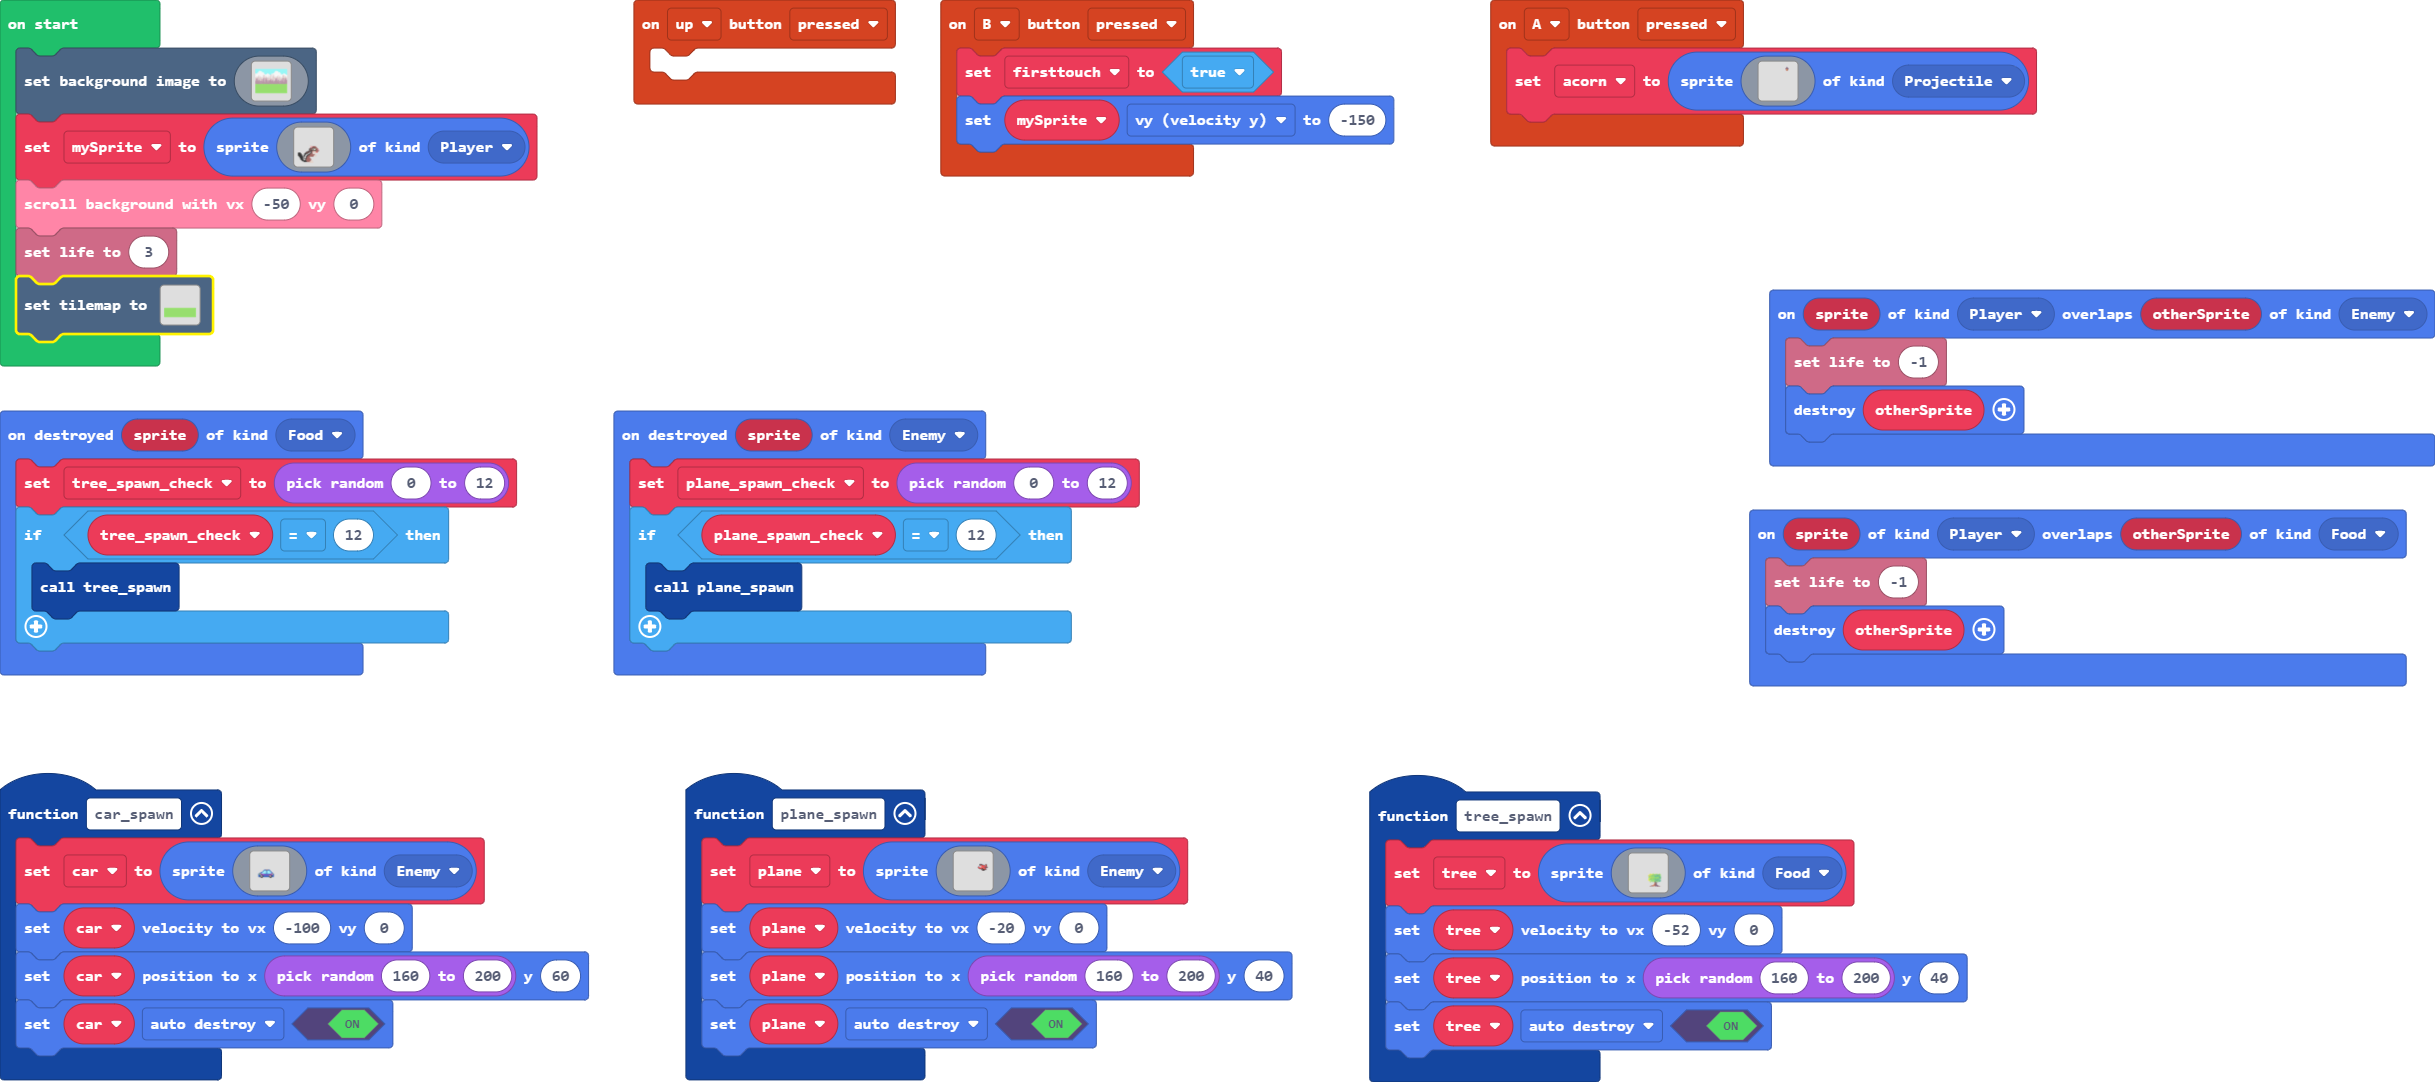
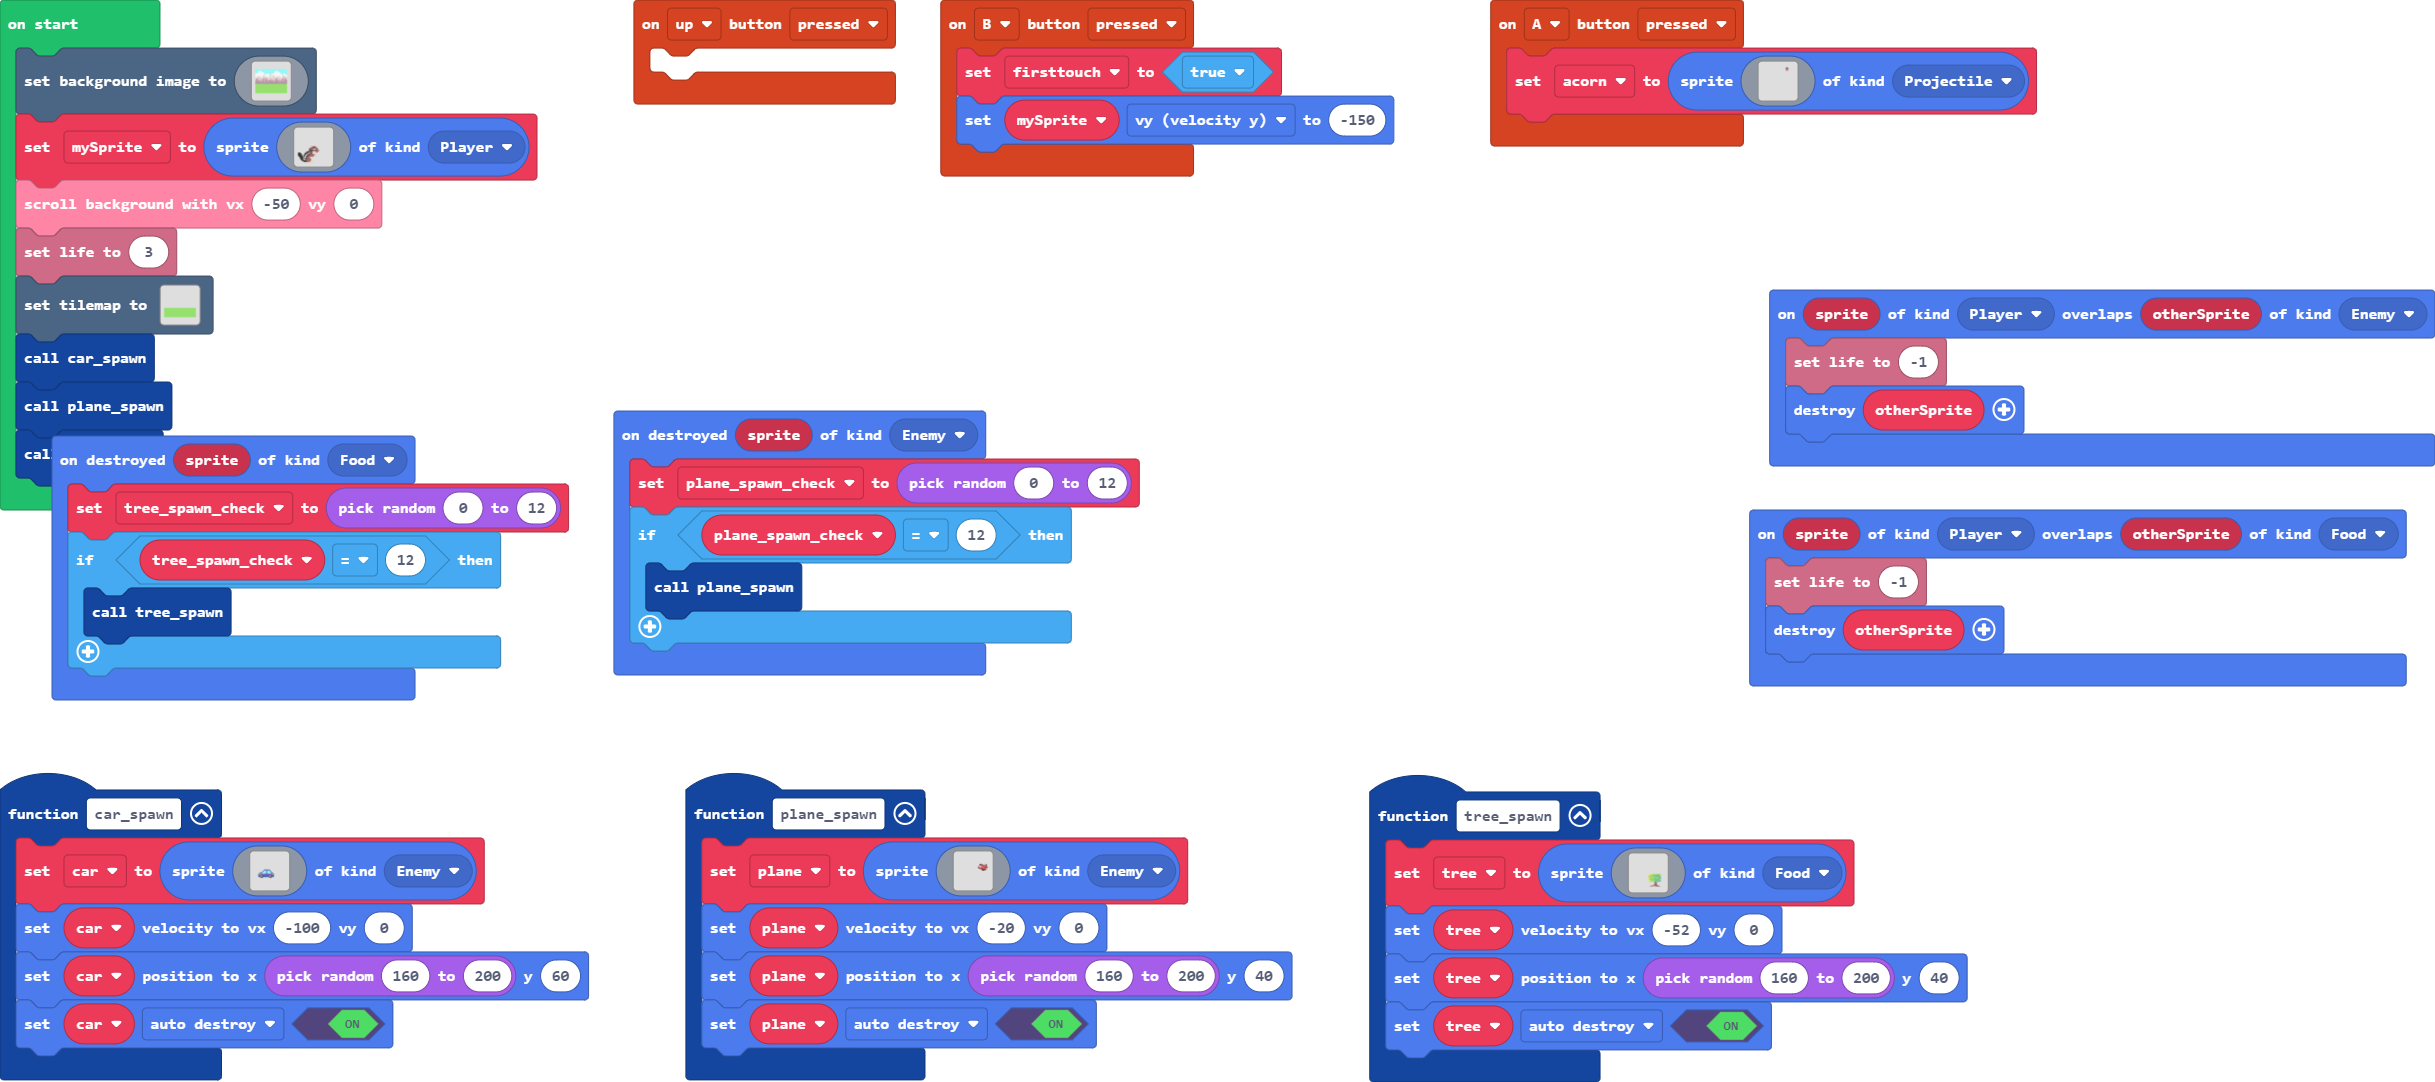
Update main.blocks, main.ts

Changed region(s): [[0.0, 0.305, 0.2497, 0.671], [0.0, 0.244, 0.0936, 0.2745]]

diff --git a/main.ts b/main.ts
@@ -423,3 +423,6 @@ mySprite = sprites.create(assets.image`Squirrel`, SpriteKind.Player)
 scroller.scrollBackgroundWithSpeed(-50, 0)
 info.setLife(3)
 tiles.setTilemap(tilemap`level2`)
+car_spawn()
+plane_spawn()
+tree_spawn()
